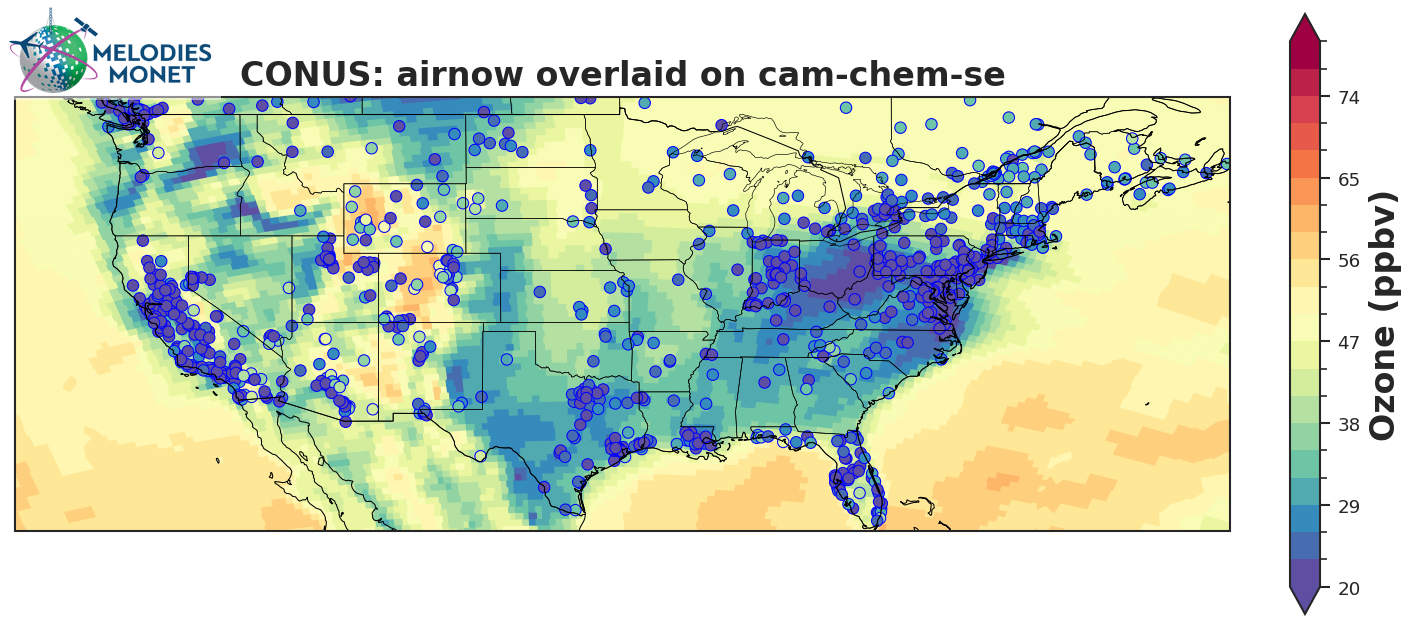
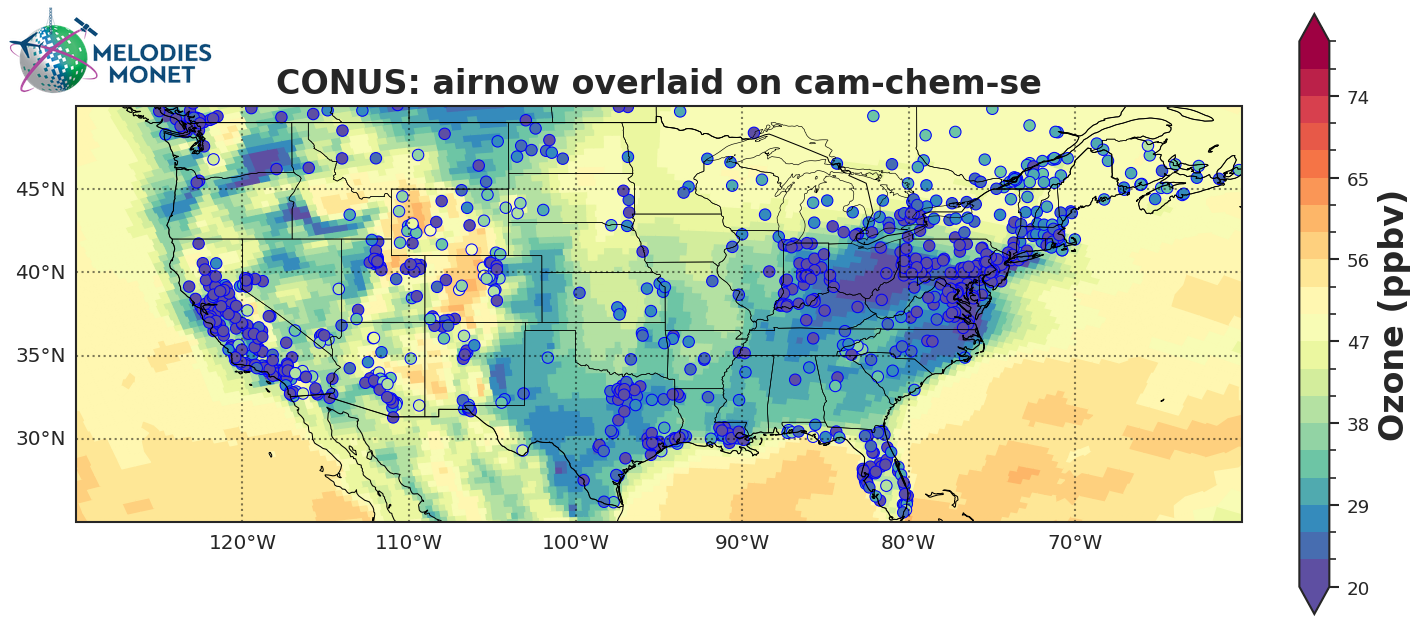
dealt with some speed issues

diff --git a/melodies_monet/util/uxarray_util.py b/melodies_monet/util/uxarray_util.py
@@ -10,7 +10,7 @@ these util functions only run if a grid file is provided in the YAML, preserving
 
 import numpy as np
 import uxarray as ux
-
+import xarray as xr
 
 def _coord(obj, names):
     """Return ``(name, coord)`` for the first of ``names`` present on ``obj``.
@@ -144,13 +144,25 @@ def uxda_from_columns(da, uxgrid):
     spatial_dim, lon_name = _spatial_dim(da)
     lat_name = _lat_name(da)
     name = da.name if da.name is not None else "_v"
+    n_face = uxgrid.n_face
 
-    if da.sizes[spatial_dim] == uxgrid.n_face:
+    if da.sizes[spatial_dim] == n_face:
         aligned = da.rename({spatial_dim: "n_face"})
+        return ux.UxDataArray(aligned, uxgrid=uxgrid)
+
+    face_for_col = _face_for_columns(
+        uxgrid, da[lon_name].values, da[lat_name].values)
+
+    if da.ndim == 1:
+        values = np.asarray(da.values, dtype=float)
+        fc = np.asarray(face_for_col)
+        valid = ~np.isnan(values)
+        face_sum = np.bincount(fc[valid], weights=values[valid], minlength=n_face)
+        face_cnt = np.bincount(fc[valid], minlength=n_face)
+        binned = np.where(face_cnt > 0, face_sum / np.maximum(face_cnt, 1), np.nan)
+        aligned = xr.DataArray(binned, dims=["n_face"], name=name)
+        
     else:
-        face_for_col = _face_for_columns(
-            uxgrid, da[lon_name].values, da[lat_name].values
-        )
         aligned = _bin_to_faces(
             da.to_dataset(name=name), uxgrid, spatial_dim, face_for_col
         )[name]

diff --git a/melodies_monet/plots/surfplots.py b/melodies_monet/plots/surfplots.py
@@ -7,6 +7,8 @@ import seaborn as sns
 import pandas as pd
 import numpy as np
 import cartopy.crs as ccrs
+import uxarray as ux
+import cartopy.feature as cfeature
 import matplotlib as mpl
 import matplotlib.pyplot as plt
 import matplotlib.ticker as mtick
@@ -1095,9 +1097,8 @@ def make_spatial_overlay(df, vmodel, column_o=None, label_o=None, column_m=None,
         #                cmin=vmin, cmax=vmax, lon_range=[lonmin,lonmax], lat_range=[latmin,latmax],
         #                ax=ax, state=fig_dict['states'] )
 
+        # plot uxgrid natively here rather than from plot_2D
         if uxgrid is not None or grid_file:
-            import uxarray as ux
-            import cartopy.feature as cfeature
             from melodies_monet.util.uxarray_util import uxda_from_columns
 
             if uxgrid is None:
@@ -1105,6 +1106,7 @@ def make_spatial_overlay(df, vmodel, column_o=None, label_o=None, column_m=None,
 
             uxda = uxda_from_columns(vmodel_mean, uxgrid)
             poly = uxda.to_polycollection(periodic_elements="ignore")
+            
             # older uxarray returned (poly, corrected_to_gdf); newer returns poly
             if isinstance(poly, tuple):
                 poly = poly[0]
@@ -1120,13 +1122,17 @@ def make_spatial_overlay(df, vmodel, column_o=None, label_o=None, column_m=None,
                 ax.add_feature(cfeature.STATES, lw=0.3)
             ax.set_extent([lonmin, lonmax, latmin, latmax], crs=ccrs.PlateCarree())
 
+            gl = ax.gridlines(draw_labels=True, lw=1.0, color='black', alpha=0.5, linestyle=':')
+            gl.top_labels = False
+            gl.right_labels = False
+
             cbar = fig.colorbar(poly, ax=ax, shrink=0.8, pad=0.04, extend='both')
             cbar.set_label(ylabel, fontweight='bold', **text_kwargs)
         else:
             from melodies_monet.plots.Plot_2D import Plot_2D
-            _ = Plot_2D( vmodel_mean, scrip_file=scrip_file, cmap=cmap,
+            _ = Plot_2D(vmodel_mean, scrip_file=scrip_file, cmap=cmap,
                            cmin=vmin, cmax=vmax, lon_range=[lonmin,lonmax], lat_range=[latmin,latmax],
-                           ax=ax, state=fig_dict['states'] )
+                           ax=ax, state=fig_dict['states'])
 
     else:
         #I add extend='both' here because the colorbar is setup to plot the values outside the range